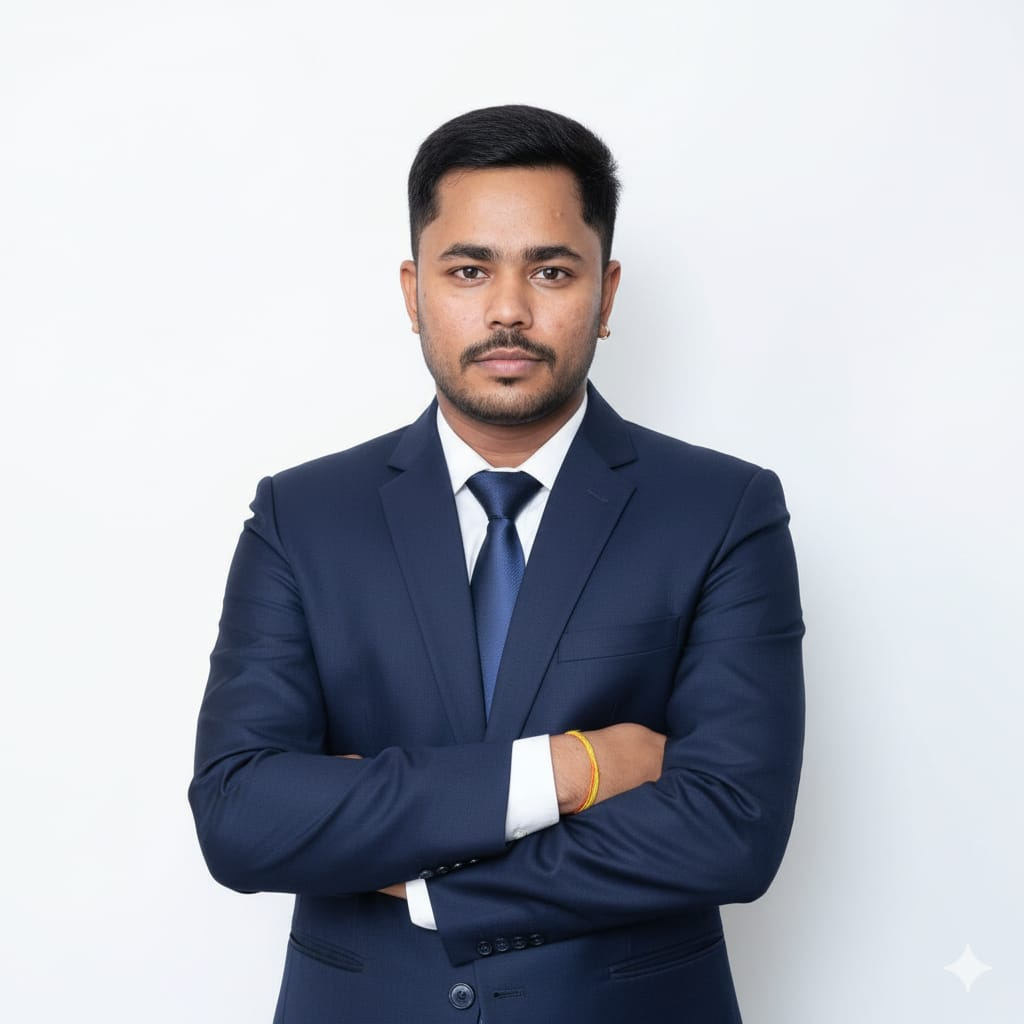
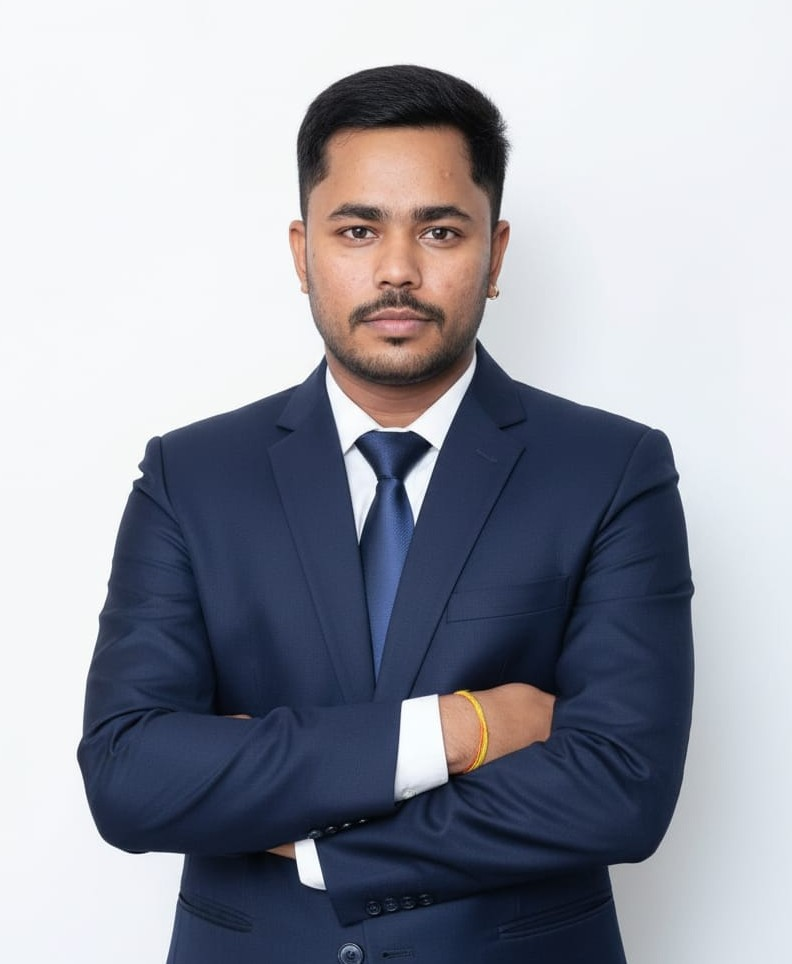
Changes

Changed region(s): [[0.0909, 0.0622, 0.9697, 1.0], [0.2424, 0.778, 0.3333, 0.8402], [0.5455, 0.5913, 0.5758, 0.6535]]

diff --git a/src/componets/About.jsx b/src/componets/About.jsx
@@ -3,50 +3,8 @@ import JobCard from './JobCard'
 import Photo1 from '../Photo/icon-design.svg'
 import Photo2 from '../Photo/icon-dev.svg'
 import Photo3 from '../Photo/icon-photo.svg'
-import ReviewCard from './ReviewCard'
-import Nikhil from '../Photo/Nikhil.jpeg'
-import Praveen from '../Photo/Praveen.jpeg'
-import Vishal from '../Photo/Vishal.jpeg'
-import Abhay from '../Photo/Abhay.jpeg'
 
 export default function About() {
-
-    const slides = [
-        {
-            image: `${ Praveen }`,
-            name: "Praveen Shakya",
-            city: "Gonthra",
-            massage: "Devansh is a very good web desiner and developer.",
-        },
-        {
-            image: `${ Nikhil }`,
-            name: "Praveen Shakya",
-            city: "Gonthra",
-            massage: "Devansh is a very good web desiner and developer.",
-        },
-        {
-            image: `${ Vishal }`,
-            name: "Vishal Yadav",
-            city: "Kasganj",
-            massage: "Devansh is a very good web desiner and developer.",
-        },
-        {
-            image:`${Abhay}`,
-            name: "Abhay Pratap",
-            city: "Nagriya",
-            massage: "Devansh is a very good web desiner and developer.",
-        },
-        
-    ];
-
-    const [index, setIndex] = useState(0);
-    const nextSlide = () => {
-        setIndex((prev) => (prev + 1) % slides.length);
-    };
-
-    const prevSlide = () => {
-        setIndex((prev) => (prev - 1 + slides.length) % slides.length);
-    };
 
     //Done
     return (
@@ -71,53 +29,6 @@ export default function About() {
                     title="Photography"
                     value="I make high-quality photos of any category at a professional level."
                 />
-            </div>
-            <h2 className=' hidden text-3xl mt-7 font-bold text-white'>Testimonials</h2>
-            <div className=' hidden flex-wrap gap-3 my-3 justify-center'>
-                {slides.map(a=>(
-                    <ReviewCard
-                        name={a.name}
-                        image={a.image}
-                        massage={a.massage}
-                        city={a.city}
-                    />
-                ))}
-            </div>
-            <div className=' hidden justify-center items-center py-5'>
-                <div className=' w-[320px] bg-gray-800 bg-opacity-50 rounded-xl shadow-xl relative overflow-hidden py-3'>
-                    <div
-                        className=" flex transition-transform duration-500 ease-in-out"
-                        style={{ transform: `translateX(-${index * 100}%)` }}
-                    >
-                        {slides.map((slide, i) => (
-                            <div
-                                key={i}
-                                className={`min-w-full h-full  overflow-hidden py-2 px-2`}
-                            >
-                                <div className=' flex justify-center'>
-                                    <img src={slide.image} alt="" className=' w-[170px] rounded-lg shadow-lg'/>
-                                </div>
-                                <p className=' text-center mt-4 text-yellow-200 font-semibold text-2xl'>{slide.name}</p>
-                                <p className=' text-white text-center text-lg'>City : {slide.city}</p>
-                                <p className=' mt-2 text-xl font-semibold text-white'>Review :</p>
-                                <p className=' text-white font-[cursive] text-lg'>"{slide.massage}"</p>
-                            </div>
-                        ))}
-                    </div>
-                    <button
-                        onClick={prevSlide}
-                        className="absolute left-3 top-1/2 -translate-y-1/2 bg-black/50 text-white px-3 py-1 rounded-full hover:bg-black"
-                    >
-                        ❮
-                    </button>
-
-                    <button
-                        onClick={nextSlide}
-                        className="absolute right-3 top-1/2 -translate-y-1/2 bg-black/50 text-white px-3 py-1 rounded-full hover:bg-black"
-                    >
-                        ❯
-                    </button>
-                </div>
             </div>
         </div>
     )

diff --git a/src/componets/Resume.jsx b/src/componets/Resume.jsx
@@ -1,5 +1,5 @@
 import React from 'react'
-import {  FaBook,} from 'react-icons/fa'
+import {  FaBook, FaBriefcase,} from 'react-icons/fa'
 import Myskill from './Myskill'
 import Frontend from './Frontend'
 import ProgrammingLanage from './ProgrammingLanage'
@@ -56,6 +56,24 @@ export default function Resume() {
                         </div>
                     </div>
                     
+                </div>
+                <div className=' flex items-center gap-4 mt-7'>
+                    <FaBriefcase className=' text-5xl text-white bg-gray-500 bg-opacity-40 p-2 rounded-xl shadow-xl' />
+                    <p className=' text-white text-2xl font-bold'>Experience</p>
+                </div>
+                <div className=' border-l-2 border-white pl-2 pt-5 ml-5'>
+                    <div className=' flex gap-4 mt-7'>
+                        <div>
+                            <div className='p-1.5 bg-gray-500 bg-opacity-40 rounded-full mt-1'>
+                                <div className=' p-2 bg-yellow-100 rounded-full'>
+                                </div>
+                            </div>
+                        </div>
+                        <div>
+                            <p className=' text-xl font-semibold text-yellow-200'>2025-2026</p>
+                            <p className=' text-white text-lg'>Work as a <b>Computer Teacher</b> in <b>ASN Public School</b>.</p>
+                        </div>
+                    </div>
                 </div>
                 <Myskill />
                 <Frontend />
